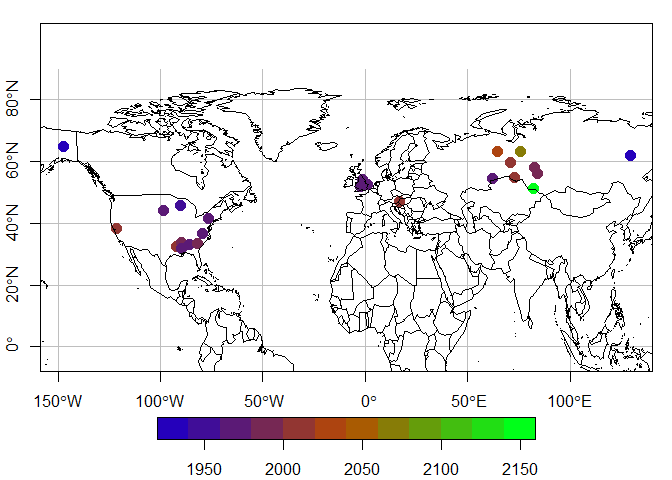
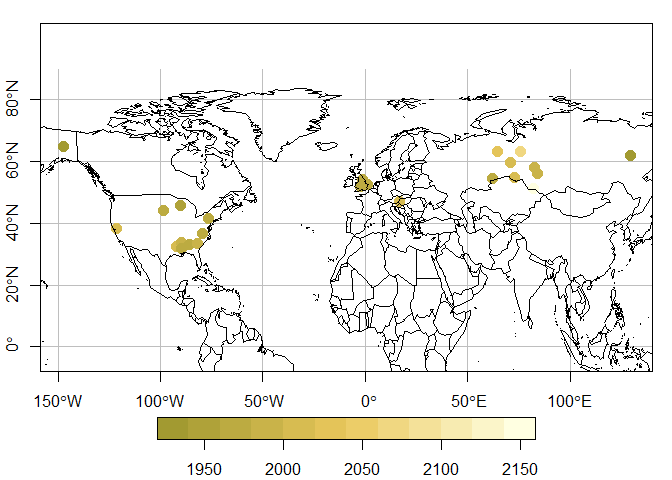
obs_read_nc reads `altitude` for aicraft and aircore

diff --git a/README.md b/README.md
@@ -89,8 +89,9 @@ being read each time, by default. At the end, this function prints the
 total number of observations by type of altitude (agl or asl).
 
 ``` r
-df <- obs_read_nc(index = index,
-                  categories = "tower-insitu")
+df <- obs_read_nc(
+  index = index,
+  categories = "tower-insitu")
 ```
 
 > intake_height or altitude_final
@@ -137,7 +138,7 @@ plot(sdft["value"],
      main = NULL)
 ```
 
-    ## Colour gradient: nd_turanj_Secondary_02a, number: 5932
+    ## Colour gradient: occ_2_occ096, number: 6453
 
 ``` r
 maps::map(add = T)
@@ -152,26 +153,26 @@ usites <- unique(df$site_name)[sample(seq_along(unique(df$site_name)), 2)]
 usites
 ```
 
-    ## [1] "Noyabrsk"           "Danville, Virginia"
+    ## [1] "Karasevoe"                    "Beech Island, South Carolina"
 
 ``` r
 knitr::kable(dft[site_name %in% usites])
 ```
 
-| site_name          | site_latitude | site_longitude | site_country  | site_code |     value |       time | time_decimal | latitude | longitude | stat   | timeUTC             |
-|:-------------------|--------------:|---------------:|:--------------|:----------|----------:|-----------:|-------------:|---------:|----------:|:-------|:--------------------|
-| Danville, Virginia |       36.7058 |       -79.4369 | United States | DVV       | 1.847e-06 | 1468449000 |         2017 |    36.71 |    -79.44 | min    | 2016-07-13 22:30:00 |
-| Danville, Virginia |       36.7058 |       -79.4369 | United States | DVV       | 1.945e-06 | 1483676100 |         2017 |    36.71 |    -79.44 | q1     | 2017-01-06 04:15:00 |
-| Danville, Virginia |       36.7058 |       -79.4369 | United States | DVV       | 1.966e-06 | 1494000000 |         2017 |    36.71 |    -79.44 | median | 2017-05-05 16:00:00 |
-| Danville, Virginia |       36.7058 |       -79.4369 | United States | DVV       | 1.970e-06 | 1493261865 |         2017 |    36.71 |    -79.44 | mean   | 2017-04-27 02:57:45 |
-| Danville, Virginia |       36.7058 |       -79.4369 | United States | DVV       | 1.994e-06 | 1504986300 |         2018 |    36.71 |    -79.44 | q3     | 2017-09-09 19:45:00 |
-| Danville, Virginia |       36.7058 |       -79.4369 | United States | DVV       | 2.356e-06 | 1514763000 |         2018 |    36.71 |    -79.44 | max    | 2017-12-31 23:30:00 |
-| Noyabrsk           |       63.4292 |        75.7800 | Russia        | NOY       | 1.848e-06 | 1130434200 |         2006 |    63.43 |     75.78 | min    | 2005-10-27 17:30:00 |
-| Noyabrsk           |       63.4292 |        75.7800 | Russia        | NOY       | 1.985e-06 | 1326479400 |         2012 |    63.43 |     75.78 | q1     | 2012-01-13 18:30:00 |
-| Noyabrsk           |       63.4292 |        75.7800 | Russia        | NOY       | 2.038e-06 | 1418131800 |         2015 |    63.43 |     75.78 | median | 2014-12-09 13:30:00 |
-| Noyabrsk           |       63.4292 |        75.7800 | Russia        | NOY       | 2.064e-06 | 1405484932 |         2015 |    63.43 |     75.78 | mean   | 2014-07-16 04:28:52 |
-| Noyabrsk           |       63.4292 |        75.7800 | Russia        | NOY       | 2.108e-06 | 1500283800 |         2018 |    63.43 |     75.78 | q3     | 2017-07-17 09:30:00 |
-| Noyabrsk           |       63.4292 |        75.7800 | Russia        | NOY       | 3.755e-06 | 1572496200 |         2020 |    63.43 |     75.78 | max    | 2019-10-31 04:30:00 |
+| site_name                    | site_latitude | site_longitude | site_country  | site_code |     value |       time | time_decimal | latitude | longitude | stat   | timeUTC             |
+|:-----------------------------|--------------:|---------------:|:--------------|:----------|----------:|-----------:|-------------:|---------:|----------:|:-------|:--------------------|
+| Karasevoe                    |       58.2456 |        82.4244 | Russia        | KRS       | 1.848e-06 | 1095777000 |         2005 |    58.25 |     82.42 | min    | 2004-09-21 14:30:00 |
+| Karasevoe                    |       58.2456 |        82.4244 | Russia        | KRS       | 1.937e-06 | 1208828700 |         2008 |    58.25 |     82.42 | q1     | 2008-04-22 01:45:00 |
+| Karasevoe                    |       58.2456 |        82.4244 | Russia        | KRS       | 1.974e-06 | 1315166400 |         2012 |    58.25 |     82.42 | median | 2011-09-04 20:00:00 |
+| Karasevoe                    |       58.2456 |        82.4244 | Russia        | KRS       | 1.991e-06 | 1329570666 |         2012 |    58.25 |     82.42 | mean   | 2012-02-18 13:11:06 |
+| Karasevoe                    |       58.2456 |        82.4244 | Russia        | KRS       | 2.020e-06 | 1464107400 |         2016 |    58.25 |     82.42 | q3     | 2016-05-24 16:30:00 |
+| Karasevoe                    |       58.2456 |        82.4244 | Russia        | KRS       | 3.964e-06 | 1577716200 |         2020 |    58.25 |     82.42 | max    | 2019-12-30 14:30:00 |
+| Beech Island, South Carolina |       33.4057 |       -81.8334 | United States | SCT       | 1.839e-06 | 1440019800 |         2016 |    33.41 |    -81.83 | min    | 2015-08-19 21:30:00 |
+| Beech Island, South Carolina |       33.4057 |       -81.8334 | United States | SCT       | 1.947e-06 | 1493130600 |         2017 |    33.41 |    -81.83 | q1     | 2017-04-25 14:30:00 |
+| Beech Island, South Carolina |       33.4057 |       -81.8334 | United States | SCT       | 1.978e-06 | 1541687400 |         2019 |    33.41 |    -81.83 | median | 2018-11-08 14:30:00 |
+| Beech Island, South Carolina |       33.4057 |       -81.8334 | United States | SCT       | 1.987e-06 | 1540739442 |         2019 |    33.41 |    -81.83 | mean   | 2018-10-28 15:10:42 |
+| Beech Island, South Carolina |       33.4057 |       -81.8334 | United States | SCT       | 2.015e-06 | 1586813400 |         2020 |    33.41 |    -81.83 | q3     | 2020-04-13 21:30:00 |
+| Beech Island, South Carolina |       33.4057 |       -81.8334 | United States | SCT       | 3.482e-06 | 1640993400 |         2022 |    33.41 |    -81.83 | max    | 2021-12-31 23:30:00 |
 
 We added a function to plot the data read from ObsPack. The y-axis is
 the field `value` and the x-axis is by default `time`. The data
@@ -440,7 +441,7 @@ transformed into character before writing into the disk. The separation
 is space ” “.
 
 ``` r
-master <- df3
+master <- df4
 master$timeUTC <- as.character(master$timeUTC)
 fwrite(master, 
        file =  paste0(tempdir(), "/tower_insitu_2020.txt"),
